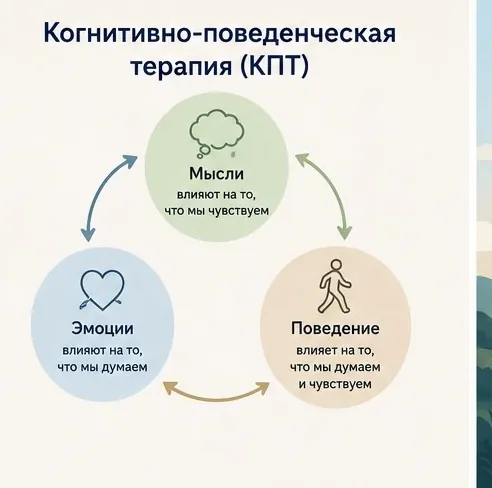
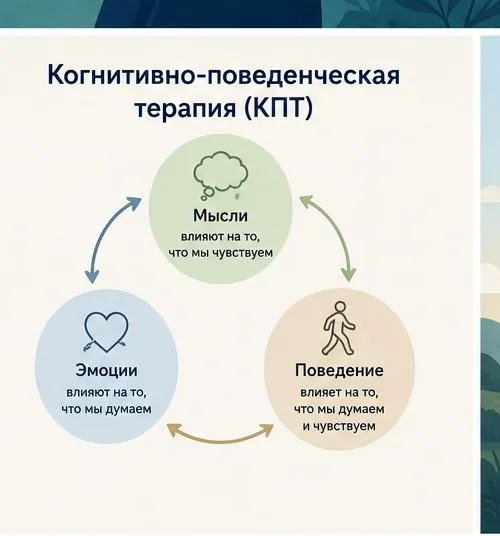
Re-crop blog infographics (breath/grounding/CBT) to even panel borders
Fixed off-center cuts: breath now includes the full diagram (was cut on
the left), grounding/CBT headings no longer clipped at top. Updated img
dimensions.

Changed region(s): [[0.0, 0.0, 1.0, 0.8299], [0.9451, 0.4918, 1.0, 1.0], [0.8232, 0.6148, 0.8537, 0.6762]]

diff --git a/blog/kak-spravitsya-s-trevogoy.html b/blog/kak-spravitsya-s-trevogoy.html
@@ -128,21 +128,21 @@
   <p>Медленный выдох успокаивает нервную систему. Вдохните через нос на счёт <strong>4</strong>, задержите дыхание на <strong>7</strong>, медленно выдохните через рот на <strong>8</strong>. Повторите 4–5 циклов. Главное — чтобы выдох был длиннее вдоха.</p>
   <p>Если 4-7-8 непривычно, попробуйте <strong>квадратное дыхание</strong>: вдох, задержка и выдох — по 4 секунды каждый.</p>
   <figure class="narrow">
-    <img src="../assets/blog/breath-444.webp" alt="Схема дыхательной техники: вдох, задержка и выдох по 4 секунды" width="535" height="485" loading="lazy">
+    <img src="../assets/blog/breath-444.webp" alt="Схема дыхательной техники: вдох, задержка и выдох по 4 секунды" width="620" height="390" loading="lazy">
     <figcaption>Квадратное дыхание: вдох — задержка — выдох по 4 секунды</figcaption>
   </figure>
 
   <h3>2. Заземление 5-4-3-2-1</h3>
   <p>Когда тревога уносит в мысли о будущем, эта техника возвращает в настоящее через органы чувств. Назовите про себя: <strong>5</strong> вещей, которые видите, <strong>4</strong> — которые слышите, <strong>3</strong> — которые можете потрогать, <strong>2</strong> запаха и <strong>1</strong> вкус.</p>
   <figure class="narrow">
-    <img src="../assets/blog/grounding-54321.webp" alt="Техника заземления 5-4-3-2-1: пять чувств" width="490" height="488" loading="lazy">
+    <img src="../assets/blog/grounding-54321.webp" alt="Техника заземления 5-4-3-2-1: пять чувств" width="498" height="536" loading="lazy">
     <figcaption>Заземление 5-4-3-2-1 переключает внимание с тревоги на реальность</figcaption>
   </figure>
 
   <h3>3. Проверьте тревожную мысль (приём из КПТ)</h3>
   <p>Тревога часто питается мыслями вида «случится худшее». Когнитивно-поведенческая терапия (КПТ) предлагает не верить им на слово, а проверять фактами. Идея КПТ проста: наши <strong>мысли</strong>, <strong>эмоции</strong> и <strong>поведение</strong> связаны, и, меняя мысли, мы влияем на самочувствие.</p>
   <figure class="narrow">
-    <img src="../assets/blog/cbt-cycle.webp" alt="Цикл КПТ: мысли влияют на эмоции и поведение" width="492" height="488" loading="lazy">
+    <img src="../assets/blog/cbt-cycle.webp" alt="Цикл КПТ: мысли влияют на эмоции и поведение" width="500" height="536" loading="lazy">
     <figcaption>В КПТ мысли, эмоции и поведение влияют друг на друга</figcaption>
   </figure>
   <p>Задайте себе три вопроса:</p>